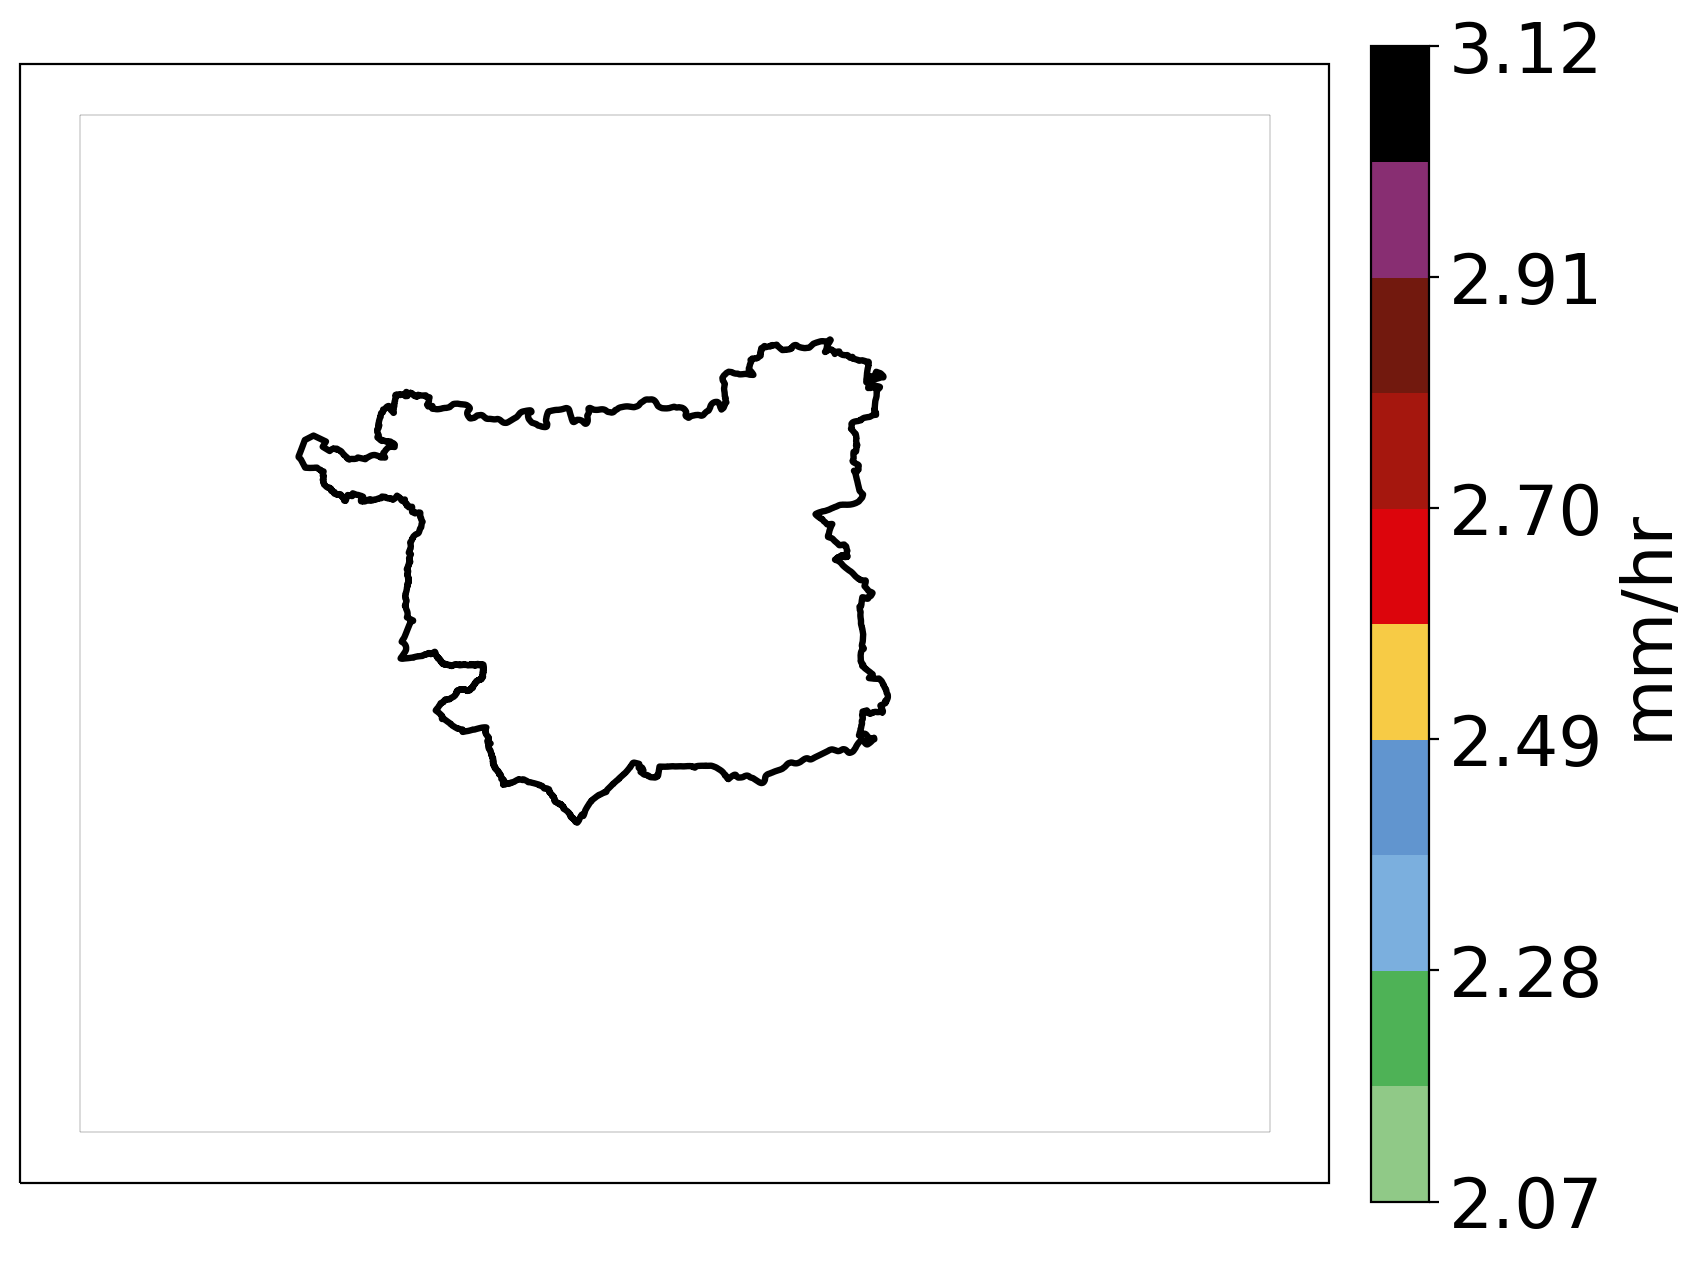
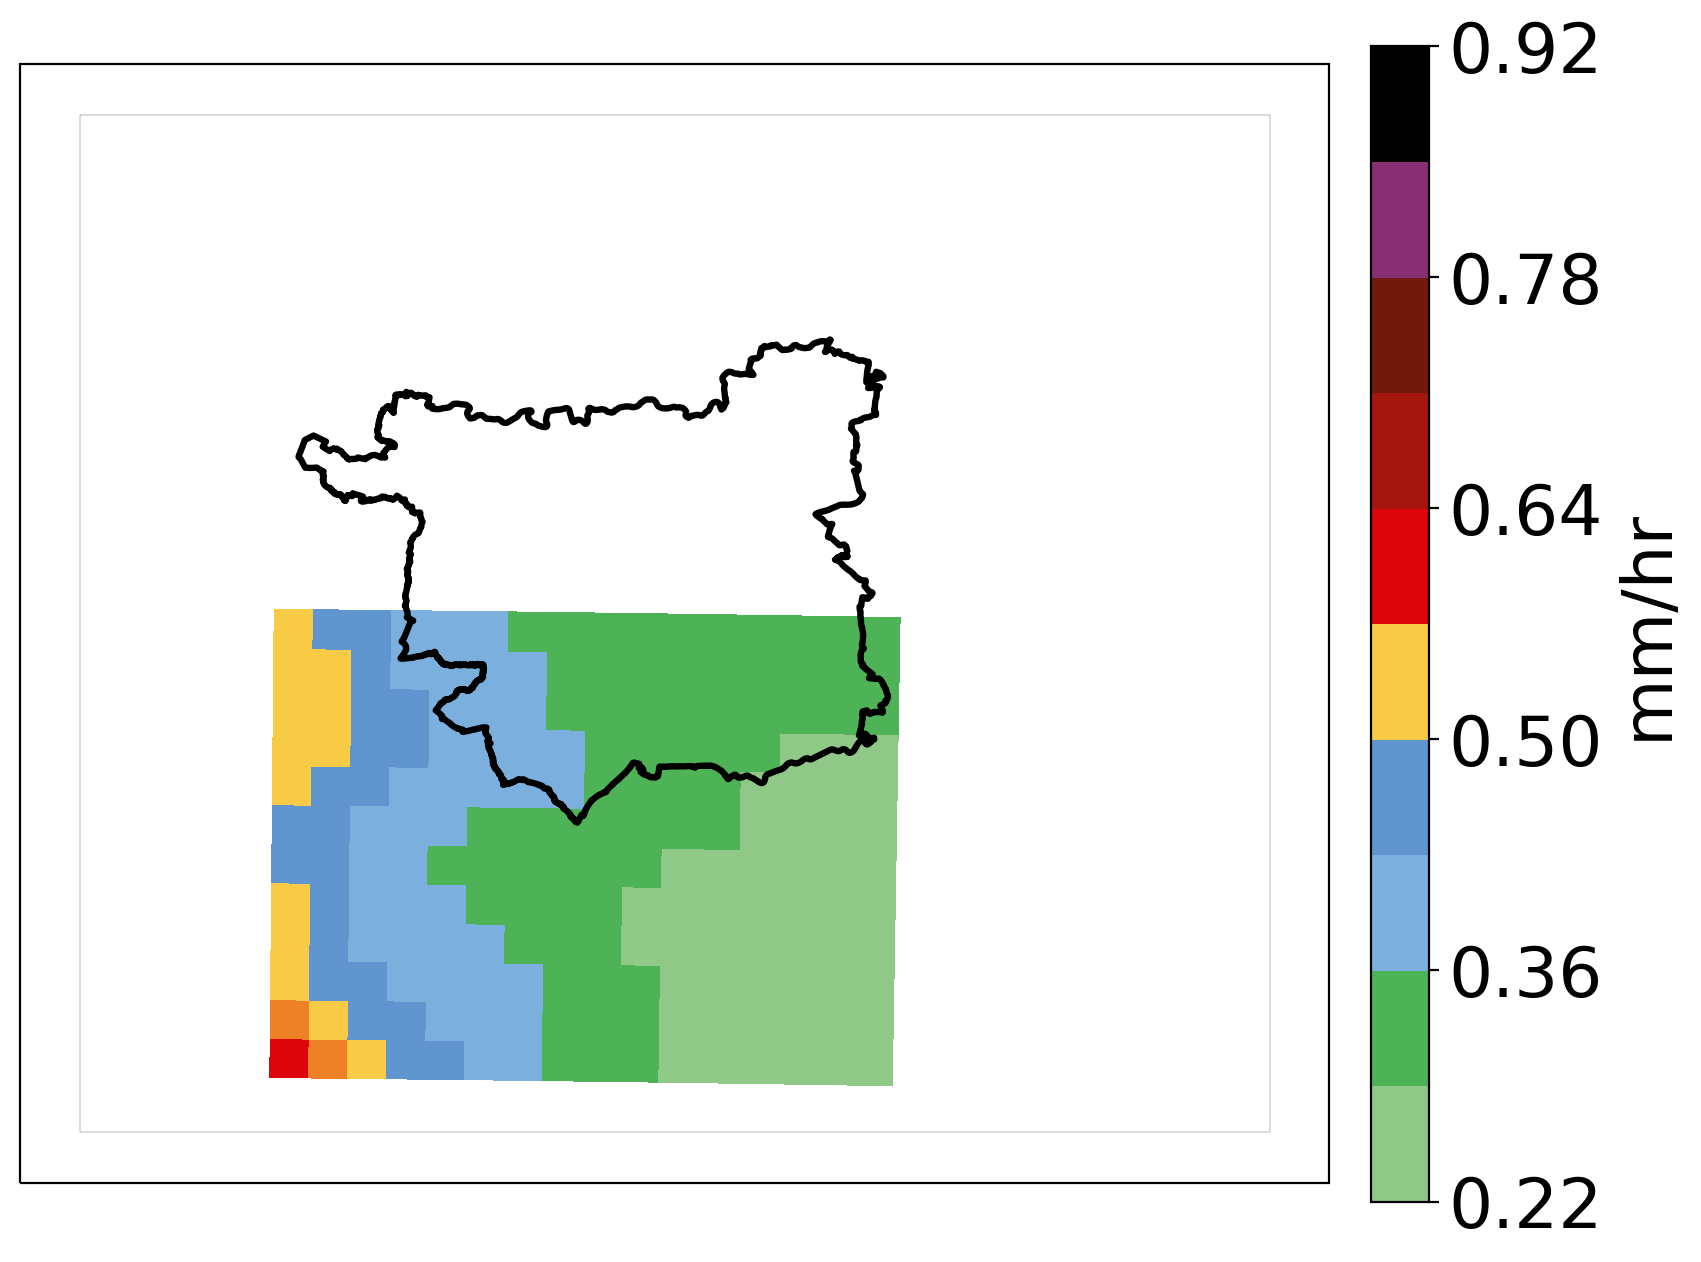
>

diff --git a/RegionalRainfallStats/Model/testing.py b/RegionalRainfallStats/Model/testing.py
@@ -200,8 +200,8 @@ for run_number in [9,10,11,12,13,14,15,16,17,18,19,20,21,22,23,24, 25]:
     local_min = stats_cube.data.min()
     local_max = stats_cube.data.max()
     percent_diff = round((local_max-local_min)/((local_max+local_min)/2)*100,2)
-    local_min = 2.07
-    local_max = 3.12
+    local_min = 0.22 #2.07
+    local_max = 0.92 #3.12
     contour_levels = np.linspace(local_min, local_max, 11,endpoint = True)
     
     #############################################################################
